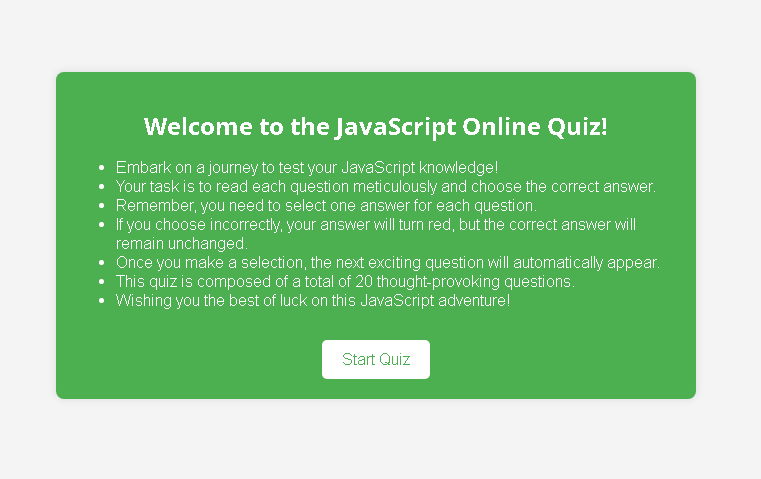
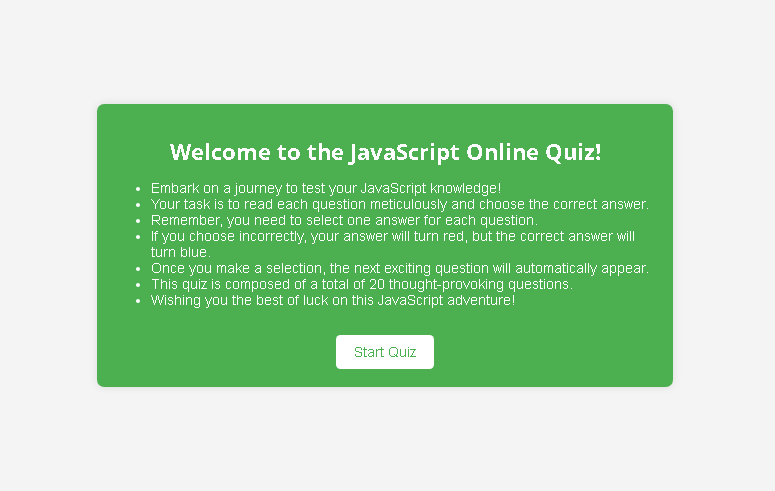
Change color for selected correct answer and update readme file accordingly

Changed region(s): [[0.0604, 0.1461, 0.9369, 0.8476]]

diff --git a/index.html b/index.html
@@ -26,7 +26,7 @@
                 <li>Embark on a journey to test your JavaScript knowledge!</li>
                 <li>Your task is to read each question meticulously and choose the correct answer.</li>
                 <li>Remember, you need to select one answer for each question.</li>
-                <li>If you choose incorrectly, your answer will turn red, but the correct answer will remain unchanged.</li>
+                <li>If you choose incorrectly, your answer will turn red, but the correct answer will turn blue.</li>
                 <li>Once you make a selection, the next exciting question will automatically appear.</li>
                 <li>This quiz is composed of a total of 20 thought-provoking questions.</li>
                 <li>Wishing you the best of luck on this JavaScript adventure!</li>

diff --git a/assets/css/style.css b/assets/css/style.css
@@ -142,5 +142,5 @@ button:hover {
 }
 
 .green {
-    background-color: darkgreen !important;
+    background-color: blue !important;
 }

diff --git a/README.md b/README.md
@@ -85,6 +85,11 @@ Wireframes were produced using Balsamiq.
 
 ![Quiz page](assets/images/quiz-page.png)
 
+### Correct Answer
+Receive immediate feedback on your responses, with correct answers visibly highlighted in blue.
+
+![Correct Answer](assets/images/correct-answer.png)
+
 ### Wrong Answer
 Receive immediate feedback on your responses, with incorrect answers visibly highlighted in red.
 
@@ -179,7 +184,6 @@ There are no known bugs.
 - [Responsinator](http://www.responsinator.com/) - Used to verify responsiveness of website on different devices.
 - [Balsamiq](https://balsamiq.com/) - Used to generate Wireframe images.
 - [Chrome Dev Tools](https://developer.chrome.com/docs/devtools/) - Used for overall development and tweaking, including testing responsiveness and performance.
-- [Font Awesome](https://fontawesome.com/) - Used for icons in information bar.
 - [GitHub](https://github.com/) - Used for version control and hosting.
 - [Google Fonts](https://fonts.google.com/) - Used to import and alter fonts on the page.
 - [TinyPNG](https://tinypng.com/) - Used to compress images to reduce file size without a reduction in quality.
